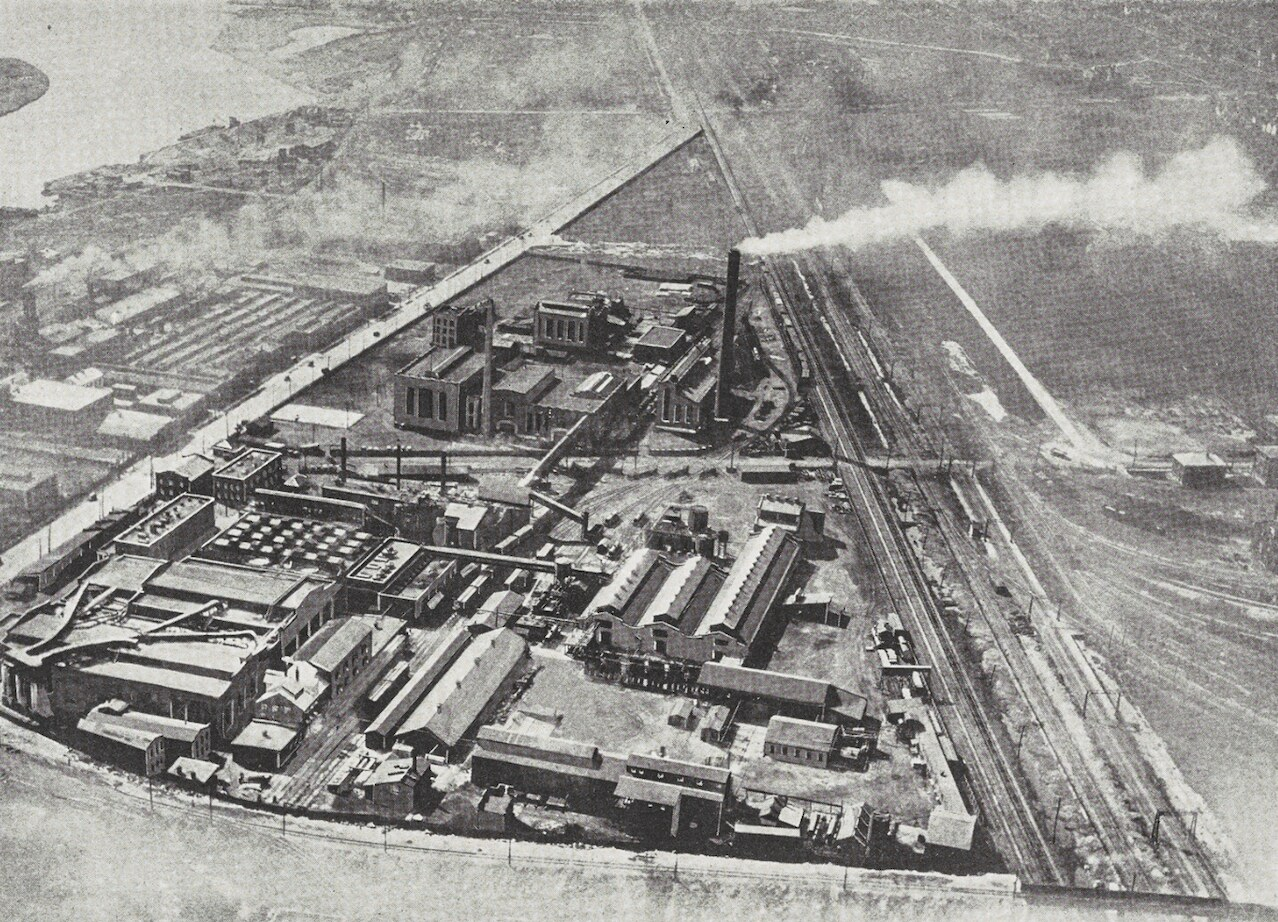
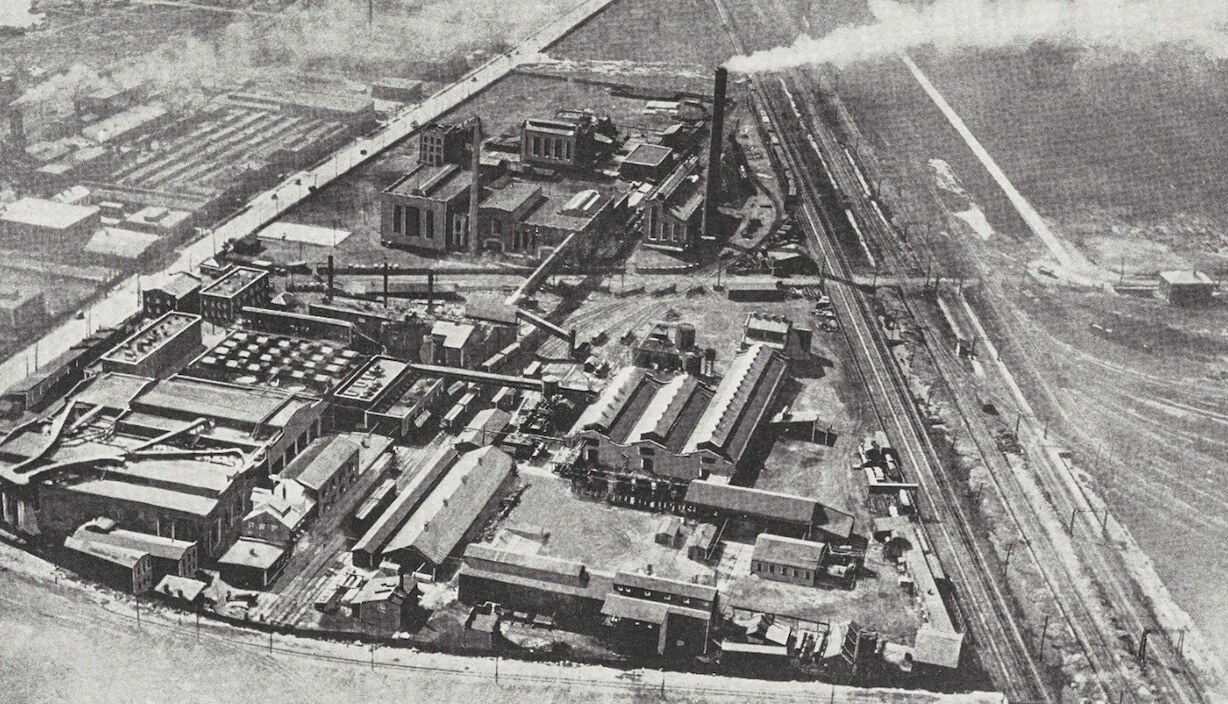
Refine Hooker and Carborundum archive slides

diff --git a/niagara/index.html b/niagara/index.html
@@ -128,14 +128,13 @@
     .waterfalls-archive-frame--crop-top img { object-fit:cover; object-position:center bottom; }
     .waterfalls-archive-frame figcaption { position:absolute; z-index:1; left:14px; bottom:12px; color:rgba(21,23,21,.55); font:8px/1.4 Arial,Helvetica,sans-serif; letter-spacing:.1em; text-transform:uppercase; }
     .waterfalls-factory-parent { position:relative; z-index:5; margin:14px 0 0; color:rgba(21,23,21,.52); font:9px/1.35 Arial,Helvetica,sans-serif; letter-spacing:.16em; text-transform:uppercase; }
-    .waterfalls-slide--panorama { padding:0; color:var(--niagara-paper); background:#092330; }
-    .waterfalls-slide--panorama .waterfalls-subslide-inner { width:100%; height:100%; display:block; position:relative; }
-    .waterfalls-slide--panorama .waterfalls-subslide-meta { position:absolute; z-index:6; top:22%; left:clamp(38px,4.8vw,70px); }
-    .waterfalls-slide--panorama .waterfalls-subslide-meta .investigation-number { color:rgba(241,240,234,.62); }
-    .waterfalls-slide--panorama .waterfalls-subslide-meta h3 { color:var(--niagara-paper); background:transparent; box-shadow:none; text-shadow:0 2px 20px rgba(0,0,0,.55); }
-    .waterfalls-slide--panorama .waterfalls-archive-frame { width:100%; height:100%; min-height:0; border:0; background:#092330; }
-    .waterfalls-slide--panorama .waterfalls-archive-frame img { object-fit:contain; }
-    .waterfalls-slide--panorama .waterfalls-archive-frame figcaption { left:auto; right:18px; color:rgba(241,240,234,.72); text-align:right; text-shadow:0 1px 8px rgba(0,0,0,.75); }
+    .waterfalls-slide--carborundum .waterfalls-subslide-inner { position:relative; display:block; }
+    .waterfalls-slide--carborundum .waterfalls-subslide-meta { position:absolute; z-index:6; top:clamp(24px,4vw,52px); left:clamp(24px,4vw,52px); opacity:calc(1 - var(--carborundum-title-hide,0)); transform:translateX(calc(-22px * var(--carborundum-title-hide,0))); pointer-events:none; will-change:opacity,transform; }
+    .waterfalls-slide--carborundum .waterfalls-subslide-meta .investigation-number { color:rgba(241,240,234,.68); }
+    .waterfalls-slide--carborundum .waterfalls-subslide-meta h3 { color:var(--niagara-paper); background:transparent; box-shadow:none; text-shadow:0 2px 20px rgba(0,0,0,.68); }
+    .waterfalls-slide--carborundum .waterfalls-archive-frame { background:#092330; }
+    .waterfalls-slide--carborundum .waterfalls-archive-frame img { object-fit:contain; }
+    .waterfalls-slide--carborundum .waterfalls-archive-frame figcaption { left:auto; right:14px; color:rgba(241,240,234,.72); text-align:right; text-shadow:0 1px 8px rgba(0,0,0,.75); }
     .waterfalls-progress { position:absolute; z-index:6; right:clamp(28px,4vw,58px); bottom:15px; display:flex; gap:3px; margin:0; padding:0; list-style:none; }
     .waterfalls-progress li { transition:transform .25s ease; }
     .waterfalls-progress button { appearance:none; min-width:43px; min-height:42px; display:grid; place-items:center; padding:0; border:0; color:rgba(21,23,21,.42); background:transparent; cursor:pointer; font:11px/1 Arial,Helvetica,sans-serif; letter-spacing:.09em; transition:color .25s ease; }
@@ -534,7 +533,7 @@
               </div>
             </article>
 
-            <article class="health-slide waterfalls-slide--archive waterfalls-slide--panorama" data-waterfalls-section="7">
+            <article class="health-slide waterfalls-slide--archive waterfalls-slide--carborundum" data-waterfalls-section="7">
               <div class="waterfalls-subslide-inner">
                 <header class="waterfalls-subslide-meta">
                   <span class="investigation-number">I</span>
@@ -1095,11 +1094,19 @@
         const waterfallsProgress = Array.from(document.querySelectorAll('.waterfalls-progress button'));
         const waterfallsPrev = document.querySelector('.waterfalls-prev');
         const waterfallsNext = document.querySelector('.waterfalls-next');
+        const carborundumSlide = waterfallsSlides.find(slide => slide.dataset.waterfallsSection === '7');
+        const carborundumIndex = waterfallsSlides.indexOf(carborundumSlide);
         let waterfallsProgressFrame = 0;
 
         const updateWaterfallsProgress = () => {
           waterfallsProgressFrame = 0;
-          const index = Math.max(0, Math.min(waterfallsSlides.length - 1, Math.round(waterfallsTrack.scrollLeft / waterfallsTrack.clientWidth)));
+          const rawIndex = waterfallsTrack.clientWidth ? waterfallsTrack.scrollLeft / waterfallsTrack.clientWidth : 0;
+          const index = Math.max(0, Math.min(waterfallsSlides.length - 1, Math.round(rawIndex)));
+          if (carborundumSlide && carborundumIndex > 0) {
+            const fadeStart = carborundumIndex - .32;
+            const titleHide = Math.max(0, Math.min(1, (rawIndex - fadeStart) / .32));
+            carborundumSlide.style.setProperty('--carborundum-title-hide', titleHide.toFixed(3));
+          }
           waterfallsProgress.forEach((button,itemIndex) => {
             const current = itemIndex === index;
             button.parentElement.classList.toggle('is-current', current);
